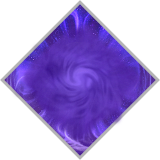
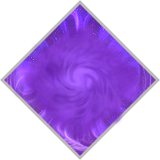
Add Stasis subclass base images and adjust Void 3.0 base image to be more differentiated from Stasis' color.

diff --git a/src/app/inventory/subclass.ts b/src/app/inventory/subclass.ts
@@ -3,6 +3,8 @@ import { DamageType } from 'bungie-api-ts/destiny2';
 import { SocketCategoryHashes } from 'data/d2/generated-enums';
 import subclassArc from 'images/subclass-arc.png';
 import subclassSolar from 'images/subclass-solar.png';
+import subclassStasisAlt from 'images/subclass-stasis-alt.png';
+import subclassStasis from 'images/subclass-stasis.png';
 import subclassVoidAlt from 'images/subclass-void-alt.png';
 import subclassVoid from 'images/subclass-void.png';
 import { DimItem } from './item-types';
@@ -169,6 +171,7 @@ const baseImagesByDamageType: Partial<Record<DamageType, string>> = {
   [DamageType.Arc]: subclassArc,
   [DamageType.Thermal]: subclassSolar,
   [DamageType.Void]: subclassVoid,
+  [DamageType.Stasis]: subclassStasis,
 };
 
 /*
@@ -177,6 +180,7 @@ that the super icons include.
 */
 const altBaseImagesByDamageType: Partial<Record<DamageType, string>> = {
   [DamageType.Void]: subclassVoidAlt,
+  [DamageType.Stasis]: subclassStasisAlt,
 };
 
 interface SubclassIconInfo {
